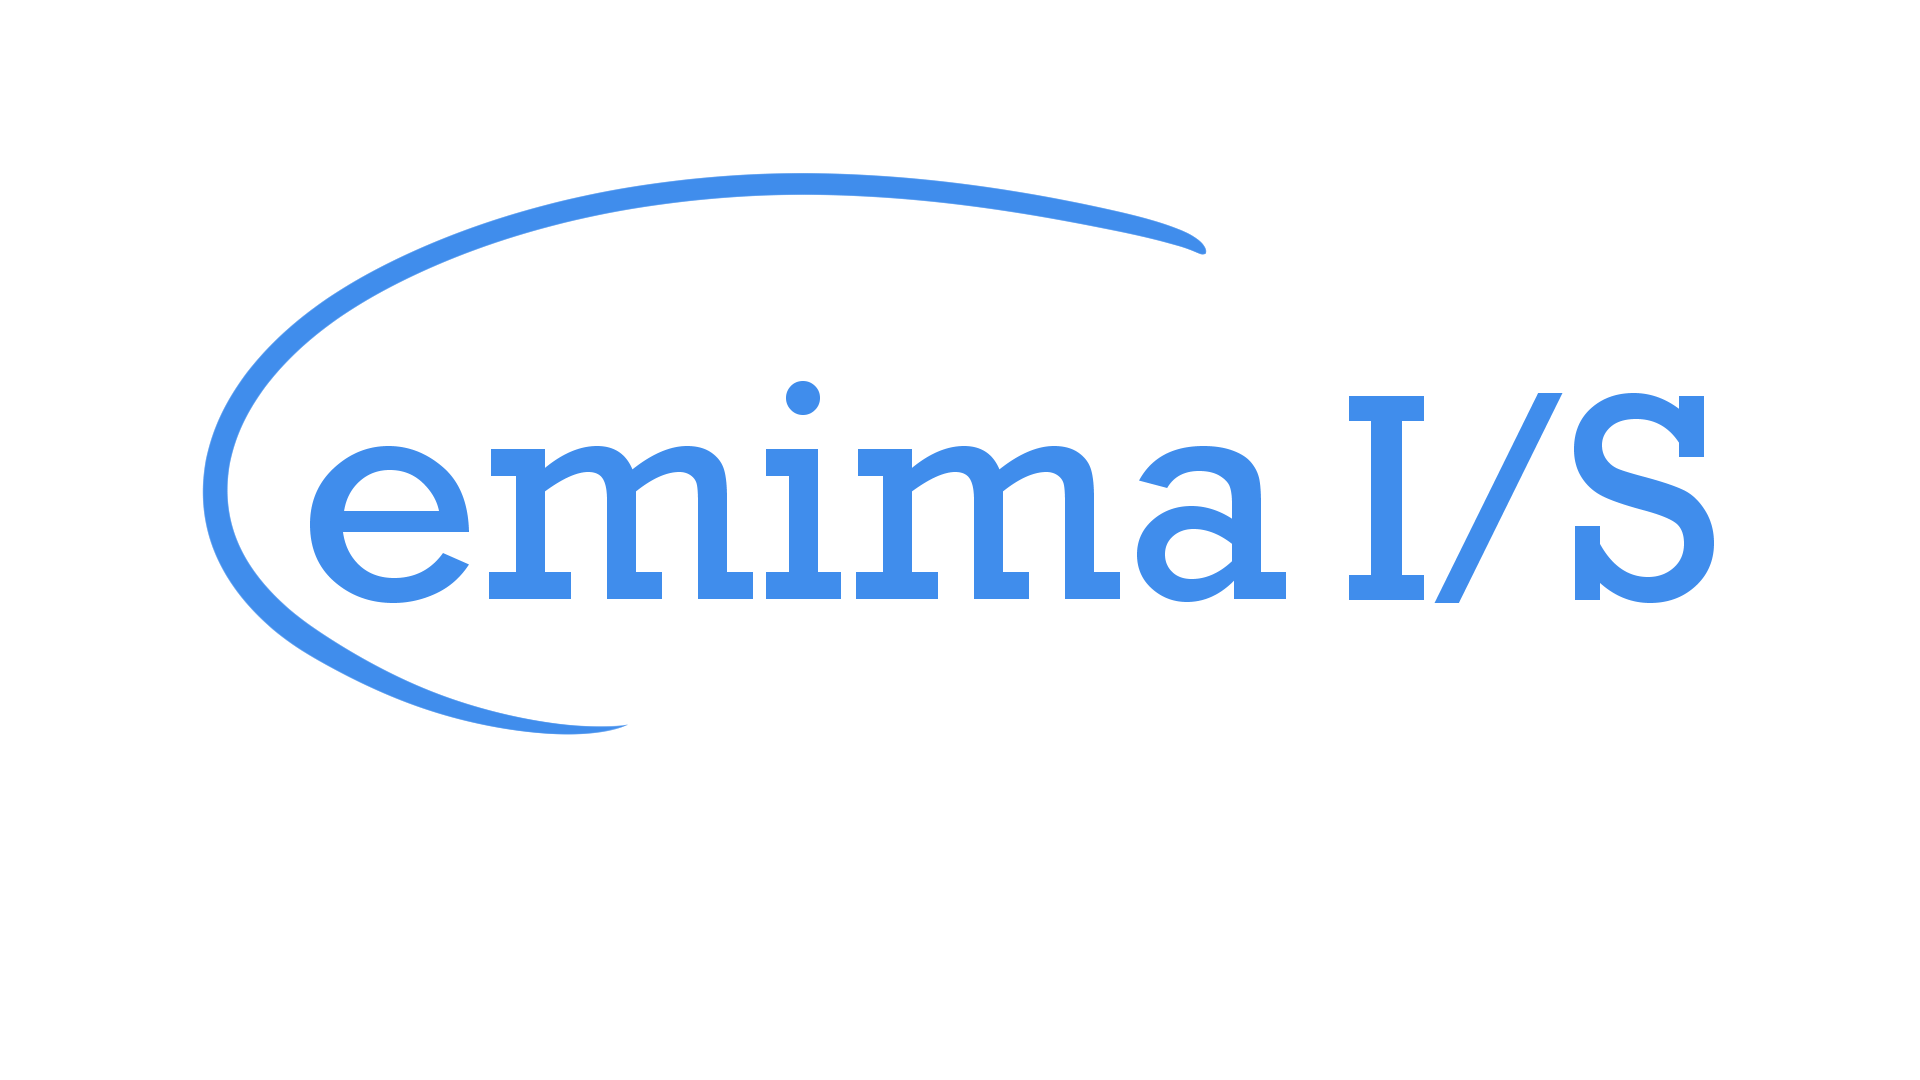
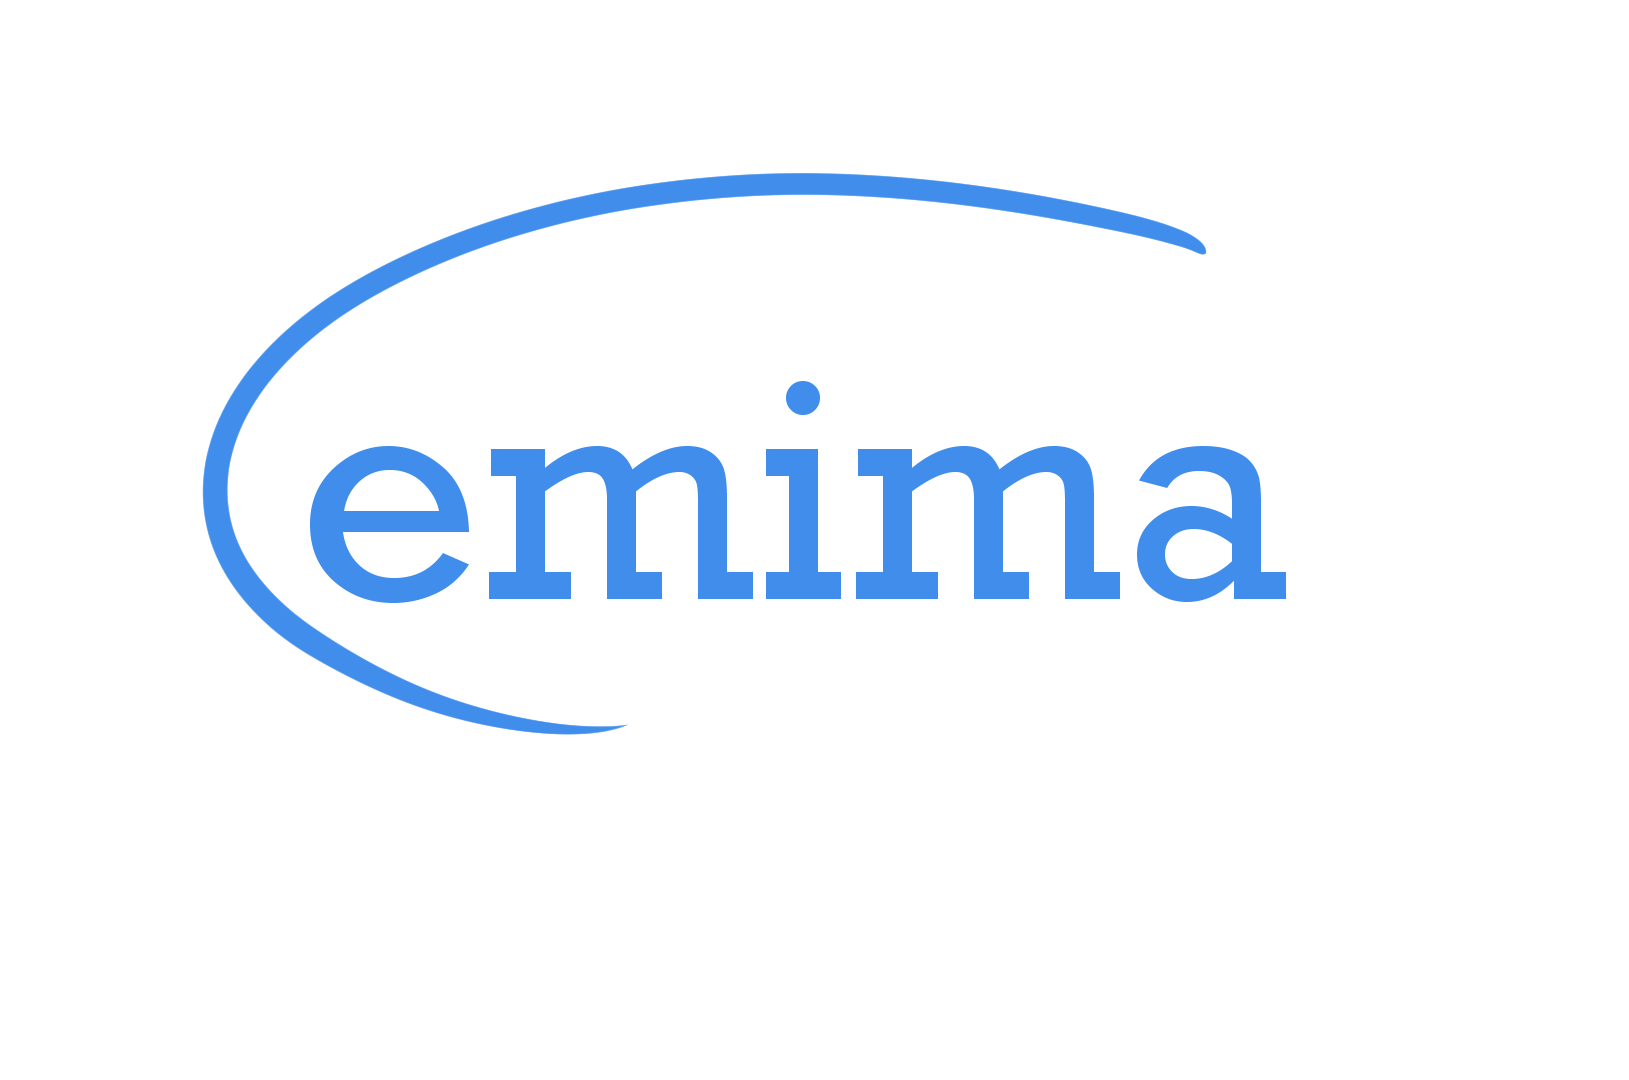
Add files via upload

Changed region(s): [[0.0921, 0.1528, 0.8901, 0.7028]]

diff --git a/index.html b/index.html
@@ -1,7 +1,7 @@
 <!DOCTYPE html>
 <html lang="en">
 <head>
-  <title>Cemima I/S</title>
+  <title>Cemima</title>
   <meta charset="utf-8">
   <meta name="viewport" content="width=device-width, initial-scale=1">
   <link rel="stylesheet" href="https://maxcdn.bootstrapcdn.com/bootstrap/4.0.0-beta.2/css/bootstrap.min.css">
